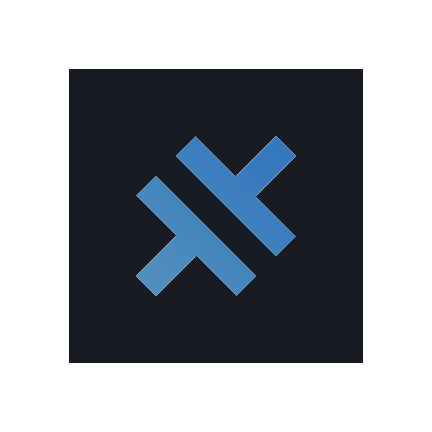
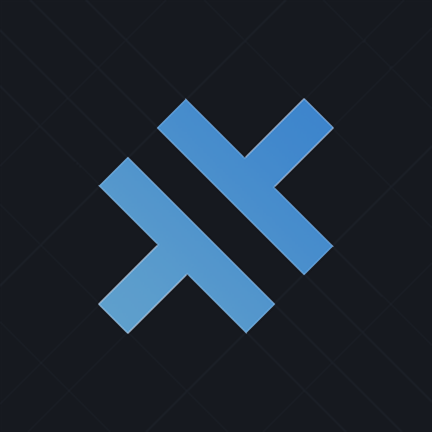
发布 v1.7.0

diff --git a/app.js b/app.js
@@ -548,7 +548,7 @@ function openSettings(){
 function closeSettings(){ $('#setMask').hidden=true; $('#setModal').hidden=true; if(!backSuppress)syncBack(); }
 
 /* ========== 软件信息 ========== */
-const APP_VERSION='v1.6.8';
+const APP_VERSION='v1.7.0';
 const REPO_URL='https://github.com/PaidaxingTuT/SuperTodo';
 const REPO_API='https://api.github.com/repos/PaidaxingTuT/SuperTodo';
 function openInfo(){ pushLayer(); $('#infoUpdate').textContent='点击检查'; $('#infoVer').textContent='SuperTodo · 版本 '+APP_VERSION.replace(/^v/,''); $('#infoMask').hidden=false; $('#infoModal').hidden=false; }

diff --git a/index.html b/index.html
@@ -244,7 +244,7 @@ try{const d=JSON.parse(localStorage.getItem('listapp.data.v2')),m=d&&d.colorMode
         <img class="info-logo-dark" src="app-icon-dark.png" alt="">
       </div>
       <div class="info-name">超级清单</div>
-      <div class="info-ver" id="infoVer">SuperTodo · 版本 1.6.8</div>
+      <div class="info-ver" id="infoVer">SuperTodo · 版本 1.7.0</div>
     </div>
     <div class="info-meta">
       <div class="info-row"><span class="info-k">作者</span><span class="info-v">派大星TuT</span></div>

diff --git a/CHANGELOG.md b/CHANGELOG.md
@@ -1,5 +1,8 @@
 # 更新记录 · CHANGELOG
 
+## v1.7.0（2026-09-02）
+- 优化暗色 Logo 的构图与背景网格对比度，消除图标白边并避免纹理喧宾夺主
+
 ## v1.6.8（2026-09-02）
 - 新增夜间模式，首次使用时自动跟随手机系统深浅色
 - 侧栏设置右侧新增日夜切换按钮，用户选择会在本地保存
